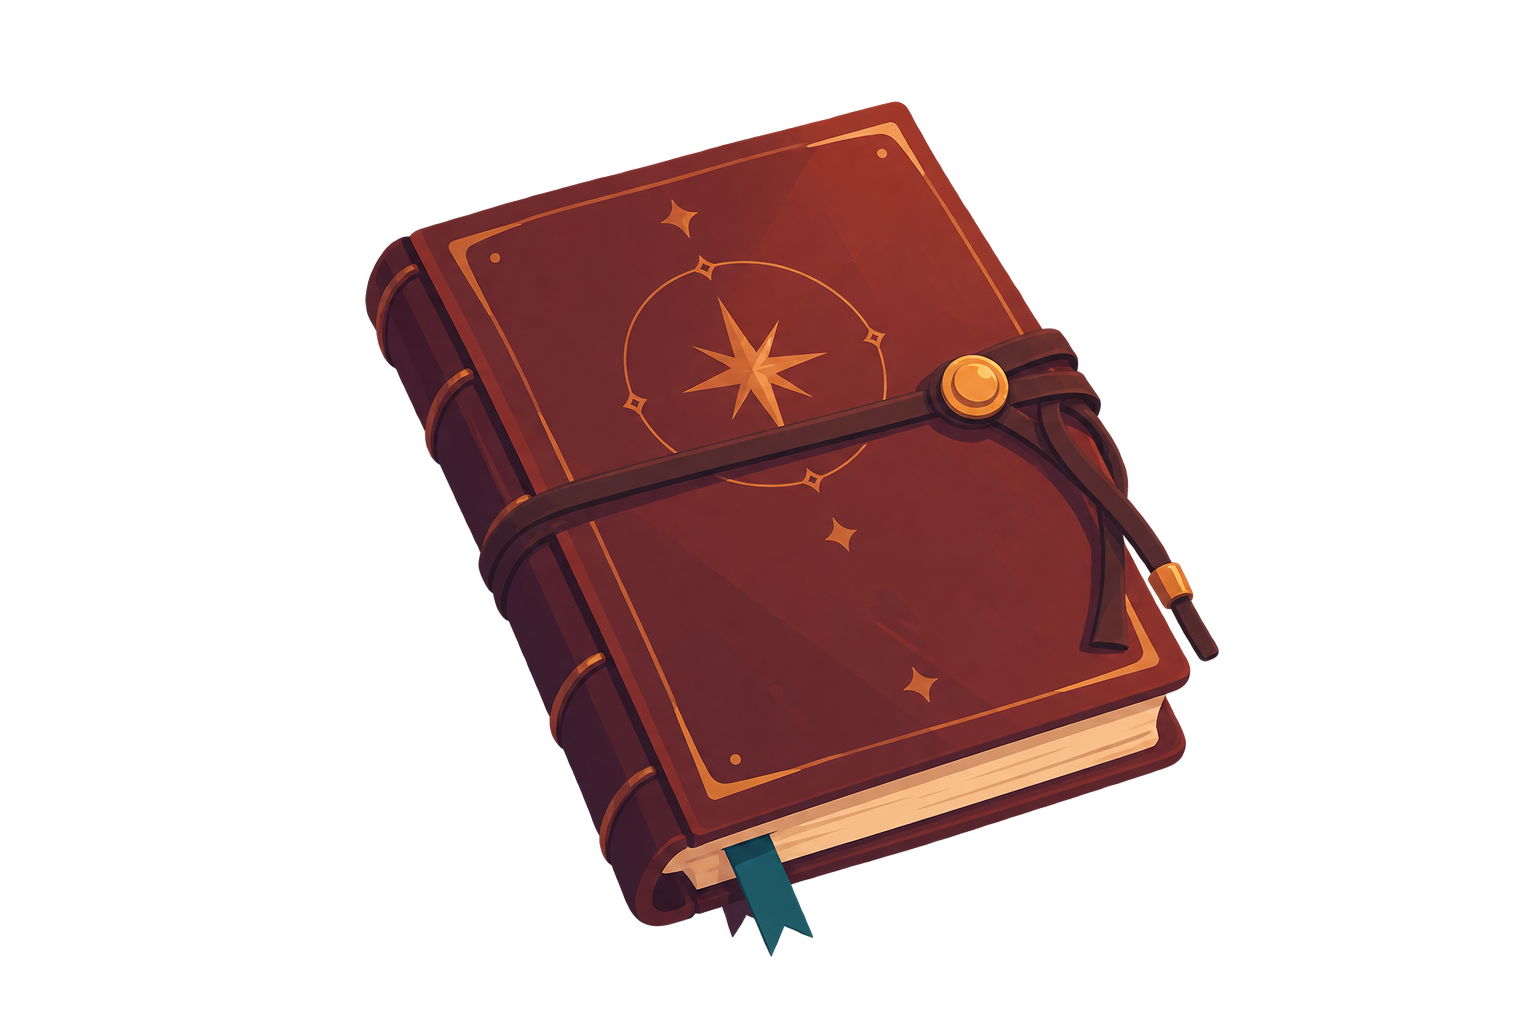
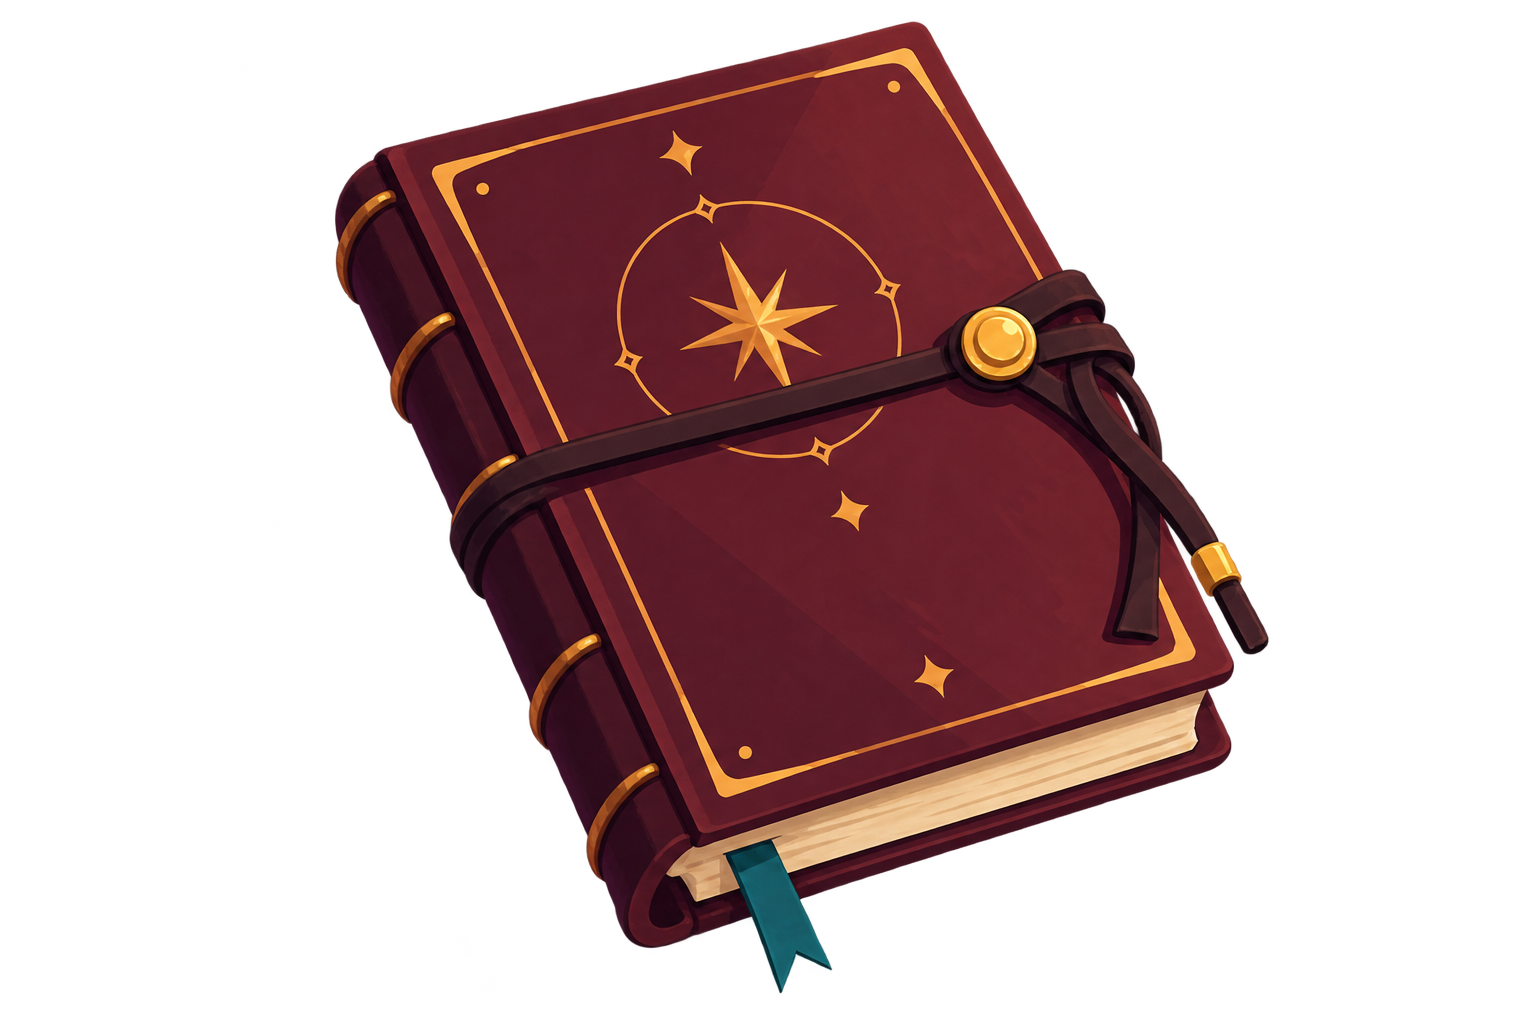
Update

diff --git a/assignment_3/index.html b/assignment_3/index.html
@@ -3,8 +3,8 @@
 <head>
     <meta charset="UTF-8">
     <meta name="viewport" content="width=device-width, initial-scale=1.0">
-   
     <title>Click for Clues</title>
+   
  <style>
     * {
         box-sizing: border-box;
@@ -29,71 +29,84 @@
         margin: 8px 0 0;
         color: b8e9e3;
         font-size: 16px;
-        font-family: Georgia, serif;
     }
-    .room {
-        position: relative;
-        width: 100%;
-        min-height: 600px;
-        background-image: url("images/background.png");
-        background-size: cover;
-        background-position: center;
-        overflow: hidden;
-        border: 3px solid #39b8b0;
-        border-radius: 12px;
-        background-size: 100% 100%;
-        background-repeat: no-repeat;
-        background-position: center;
-    }
-    .game{
+     .game{
         width : min(100%, 1000px);
         margin: auto;
         padding: 12px;
     }
+    .room {
+        position: relative;
+        width: 100%;
+        aspect-ratio: 3/2 ;
+        min-height: 400px;
+        background-image: url("images/background.png");
+        background-size: 100% 100%;
+        background-position: center;
+        overflow: hidden;
+        border: 3px solid #39b8b0;
+        border-radius: 12px;
+        background-repeat: no-repeat;
+    }
+   
     .clue {
         position: absolute;
         z-index: 10;
         border: 2px solid transparent;
-        border-radius: 12px;
-        background: #292344;
+        border-radius: 10px;
+        background: transparent;
         color: #fff5df;
-        padding: 8px 12px;
-        font-family: Georgia, serif;
-        font-size: 16px;
-        font-weight: bold;
-        cursor: pointer;
-        box-shadow: 0 3px 12px #17132955;
-        transition: transform 0.2s, background 0.2s, border-color 0.2s;
+        padding:0;
+        cursor: pointer;;
+        transition: transform 0.2s, filter 0.2s;
+    }
+    .clue img {
+        display: block;
+        width: 100%;
+        height: auto;
     }
     .clue:hover,
     .clue:focus-visible{
         transform: scale(1.05);
-        border-color:#39b8b0;
-        background: #292344;
-        box-shadow: 0 0px 18px #39b8b0aa;
+       filter: drop-shadow(0 0 10px #39b8b0);
         outline: none;
     }
     .painting{
-        left: 40%;
+        left: 35%;
         top: 20%;
+        width: 13%;
     }
     .journal{
-        left: 10%;
-        top: 60%;
+        left: 5%;
+        top: 50%;
+       width: 15%;
     }
     .key{
-        left: 35%;
-        top: 60%;
+        display: none;
+        left: 30%;
+        top: 70%;
+        width: 10%;
+    }
+    .key.visible{
+        display: block;
     }
     .envelope{
-        left: 20%;
-        top: 70%;
+        left: 60%;
+        top: 75%;
+         width: 14%;
     }
     .escape{
-        right: 10%;
-        bottom: 10%;
-        border-color: 2px solid #ffc857;
+        right: 4%;
+        top: 35%;
+        width: auto;
+        padding: 10px 15px;
+        border: 2px solid #ffc857;
+        border-radius: 10px;
+        background: #292344;
         color: #ffc857;
+        font-family: Georgia, serif;
+        font-size: 15px;
+        font-weight: bold;
     }
     .progress{
         display: flex;
@@ -106,10 +119,9 @@
         border: 1px solid #51446e;
         border-radius: 10px;
         background: #352c50;
-        font-family: Georgia, serif;
     }
     .progress strong{
-        color: ffc857;
+        color: #ffc857;
     }
     #status{
         color: #b8e9e3;
@@ -117,12 +129,13 @@
     }
     .layer{
         position: fixed;
+        inset: 0;
         z-index: 100;
         display: none;
         align-items: center;
         justify-content: center;
         padding: 20px;
-        background: #141023;
+        background: #141023c7;
     }
     .layer.show{
         display: flex;
@@ -137,7 +150,7 @@
         text-align: center;
         animation: appear 0.25s ease-out;
     }
-    .panel.symbol{
+    .symbol{
         font-size: 38px;
     }
     .panel h2{
@@ -180,20 +193,19 @@
         padding: 12px;
         font-size: 14px;
         color: #b8e9e3;
-        font-family: Georgia, serif;
     }
     @media (max-width: 600px){
         .game{
             padding: 6px;
         }
         .room{
+            min-height: 350px;
             border-width: 2px;
             border-radius: 7px;
         }
-        .clue{
-            padding: 6px;
-            font-size:10px;
-            border-radius: 7px;
+        .escape{
+            padding: 6px 9px;
+            font-size:12px;
         }
         .progress{
             padding: 10px;
@@ -212,16 +224,17 @@
 
 <main class="game">
 <div class="room">
-    <button class="painting clue" id="painting"><img src="" alt="Painting" width=""></button>
+    <button class="painting clue" id="painting" aria-label="Search the painting"><img src="images\Painting.png" alt="Painting" width="80" height="100"></button>
 
-    <button class="journal clue" id="journal"><img src=""></button>
+    <button class="journal clue" id="journal" aria-label="Search journal"><img  src="images\Journal.png" width="120" height="100"></button>
 
-    <button class="key clue" id="key"><img src=""></button>
+    <button class="key clue" id="key" aria-label="Collect key"><img src="images\Key.png" width="50" height="50"></button>
 
-    <button class="envelope clue" id="envelope"><img src=""></button>
+    <button class="envelope clue" id="envelope" aria-label="Open envelope"><img src="images\Envelope.png" width="100" height="100"></button>
 
     <button class="object escape" id="exit">Escape</button>
 </div>
+
 <div class="progress">
     <span>Clues found: <strong id="clueNumber">0 / 5</strong></span>
     <span id="status">Explore room to start!</span>
@@ -247,16 +260,21 @@ const panelText = document.getElementById("panelText");
 const clueNumber = document.getElementById("clueNumber");
 const statusText = document.getElementById("status");
 const closebutton = document.getElementById("closebutton");
+const key = document.getElementById("key");
+const envelope = document.getElementById("envelope");
+const exit = document.getElementById("exit");
 
 let cluesFound = new Set();
 let foundKey = false;
 let envelopeOpened = false;
+let gameComplete = false;
 
-function showPanel(title, text, symbol = Discover){
+function showPanel(title, text, symbol = "Discover"){
     
     panelTitle.textContent = title;
     panelText.textContent = text;
     panelSymbol.textContent = symbol;
+    panelTitle.classList.toggle("ending-title", gameComplete);
     layer.classList.add("show");
     closebutton.focus();
 }
@@ -277,14 +295,69 @@ function findClue(number){
 //Search Painting
 document.getElementById("painting").addEventListener("click",() => {
     findClue(1);
-    showPanel("THE PAINTING",);
+    showPanel("THE PAINTING","The painting looks familiar, look around the room to find a similar looking journal.");
 });
+
 //Search Journal
 document.getElementById("journal").addEventListener("click",() => {
     findClue(2);
-    showPanel("THE JOURNAL",);
+    showPanel("THE JOURNAL","What word starts with e and ends with e but has only one letter in it? Envelope!");
     });
+
 //Search Envelope
+envelope.addEventListener("click", () => {
+    if (!envelopeOpened){
+        envelopeOpened =true;
+        findClue(3);
+//Reveal Key
+key.classList.add("visible");
+    
+    showPanel("HIDDEN MESSAGE!", "You found the envelope! If you are reading this, the key to unlock the door is hidden behind the cupboard.");
+    }else{
+        showPanel(
+            "LETTER","Key to escape is hidden behind the cupboard."
+        );
+    }
+});
+
+//Search Key
+key.addEventListener("click",() =>{
+    if (!envelopeOpened){
+        showPanel("Hidden Key?");
+        return;
+    }
+  if (!foundKey){
+    foundKey = true;
+    findClue(4);
+
+    //Hide key
+    key.style.display ="none";
+        showPanel("Unlocked!","Congradulations! You can now escape!");
+    } 
+});
+
+//Escape
+exit.addEventListener("click", () => {
+    if (foundKey){
+        gameComplete = true;
+    showPanel("MYSTERY SOLVED!");
+    }else{
+        showpanel("Door is Locked.", "You need to look for the key to escape the room.");
+    }
+});
+//Close 
+closebutton.addEventListener("click",closePanel);
+layer.addEventListener("click", (event) => {
+    if (event.target === layer) {
+        closepanel();
+    }
+});
+document.addEventListener("keydown",(event) => {
+    if (event.key === "Escape"){
+        closepanel();
+    }
+});
+     
 </script>
     
 </body>
